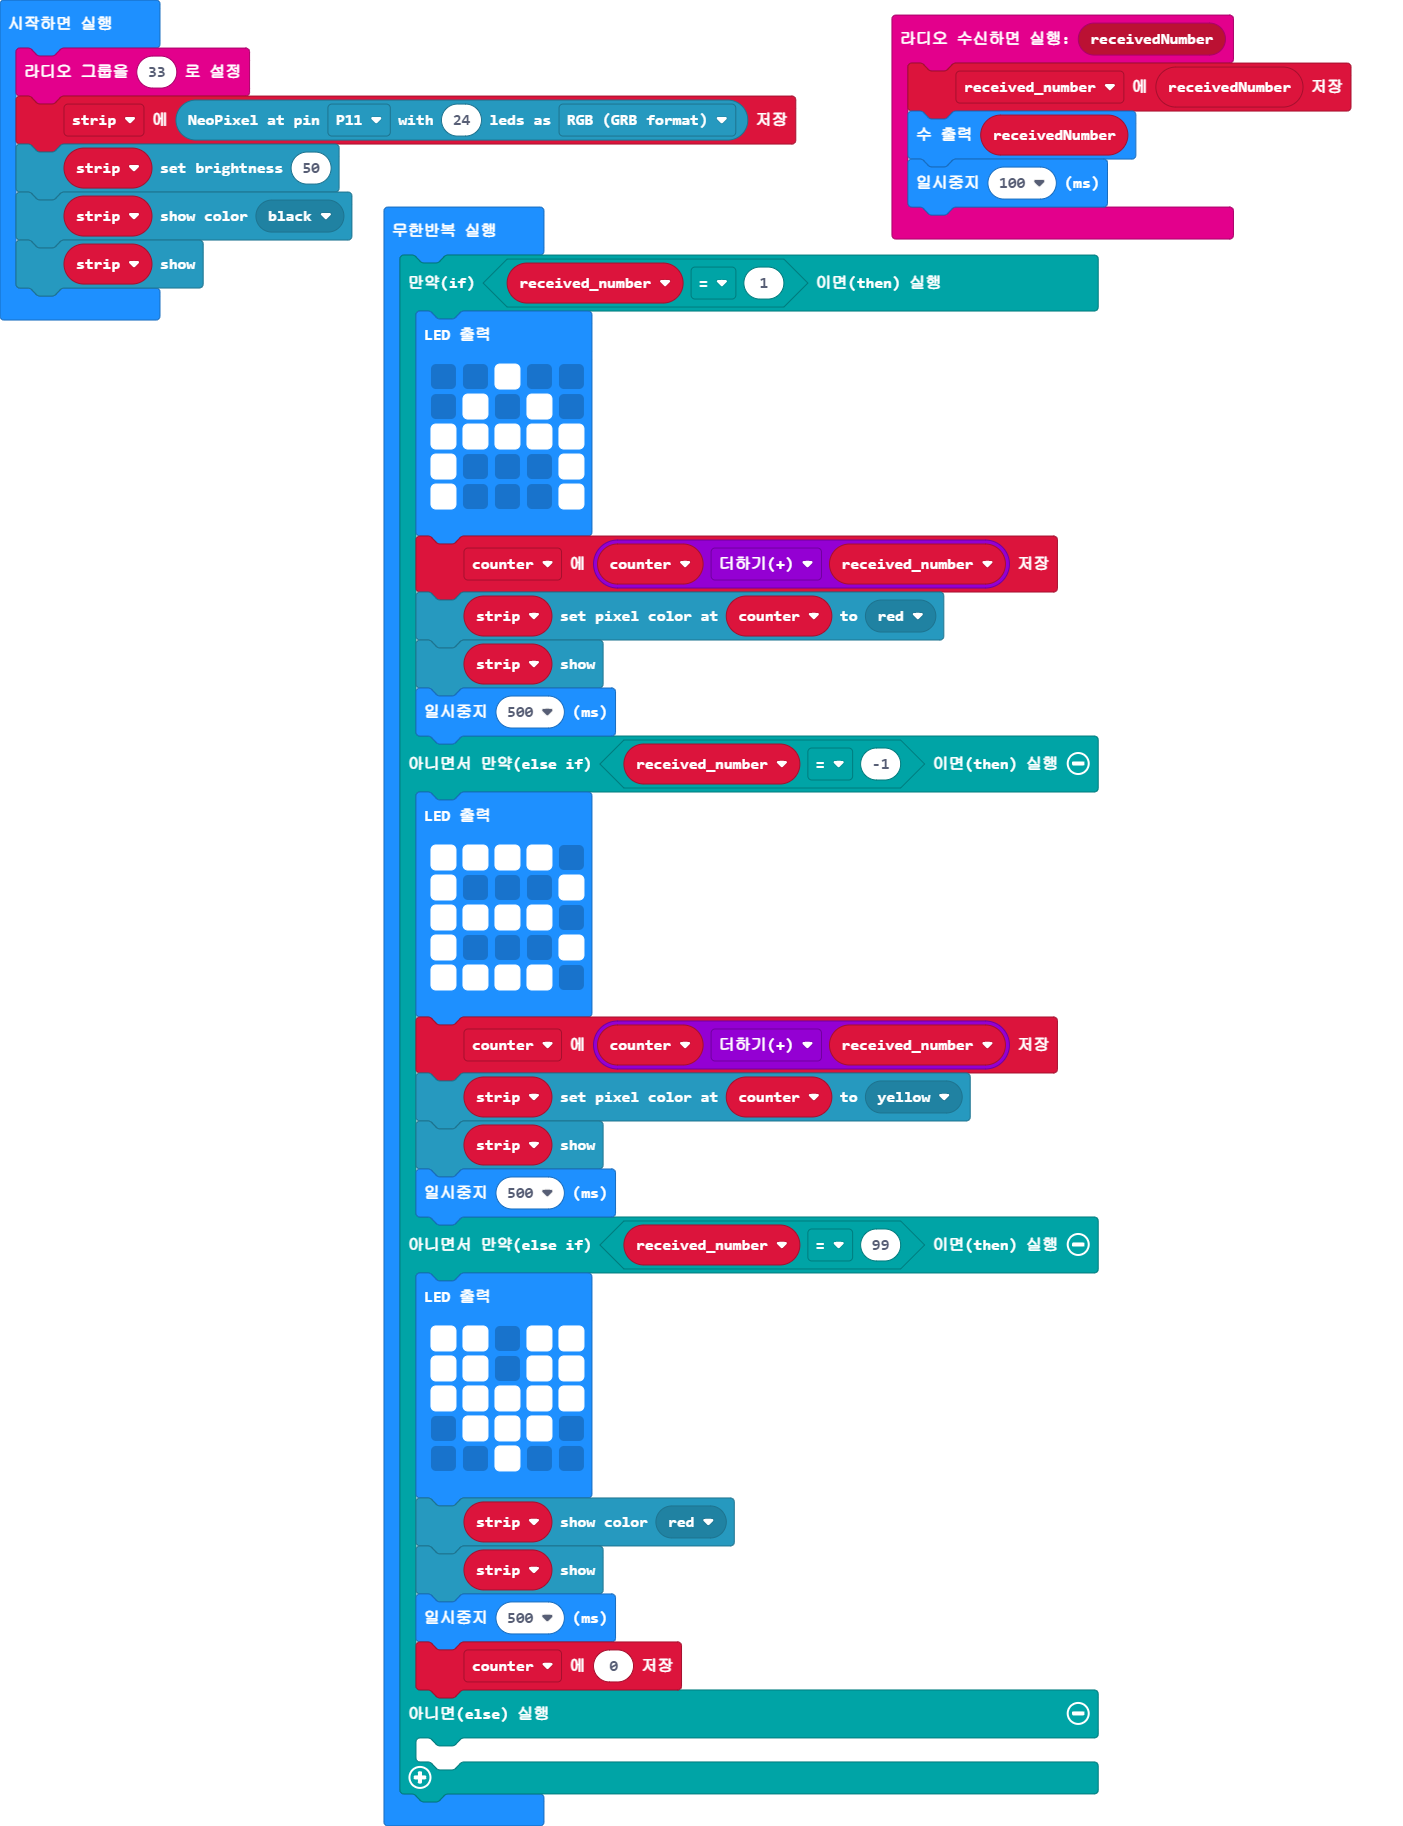
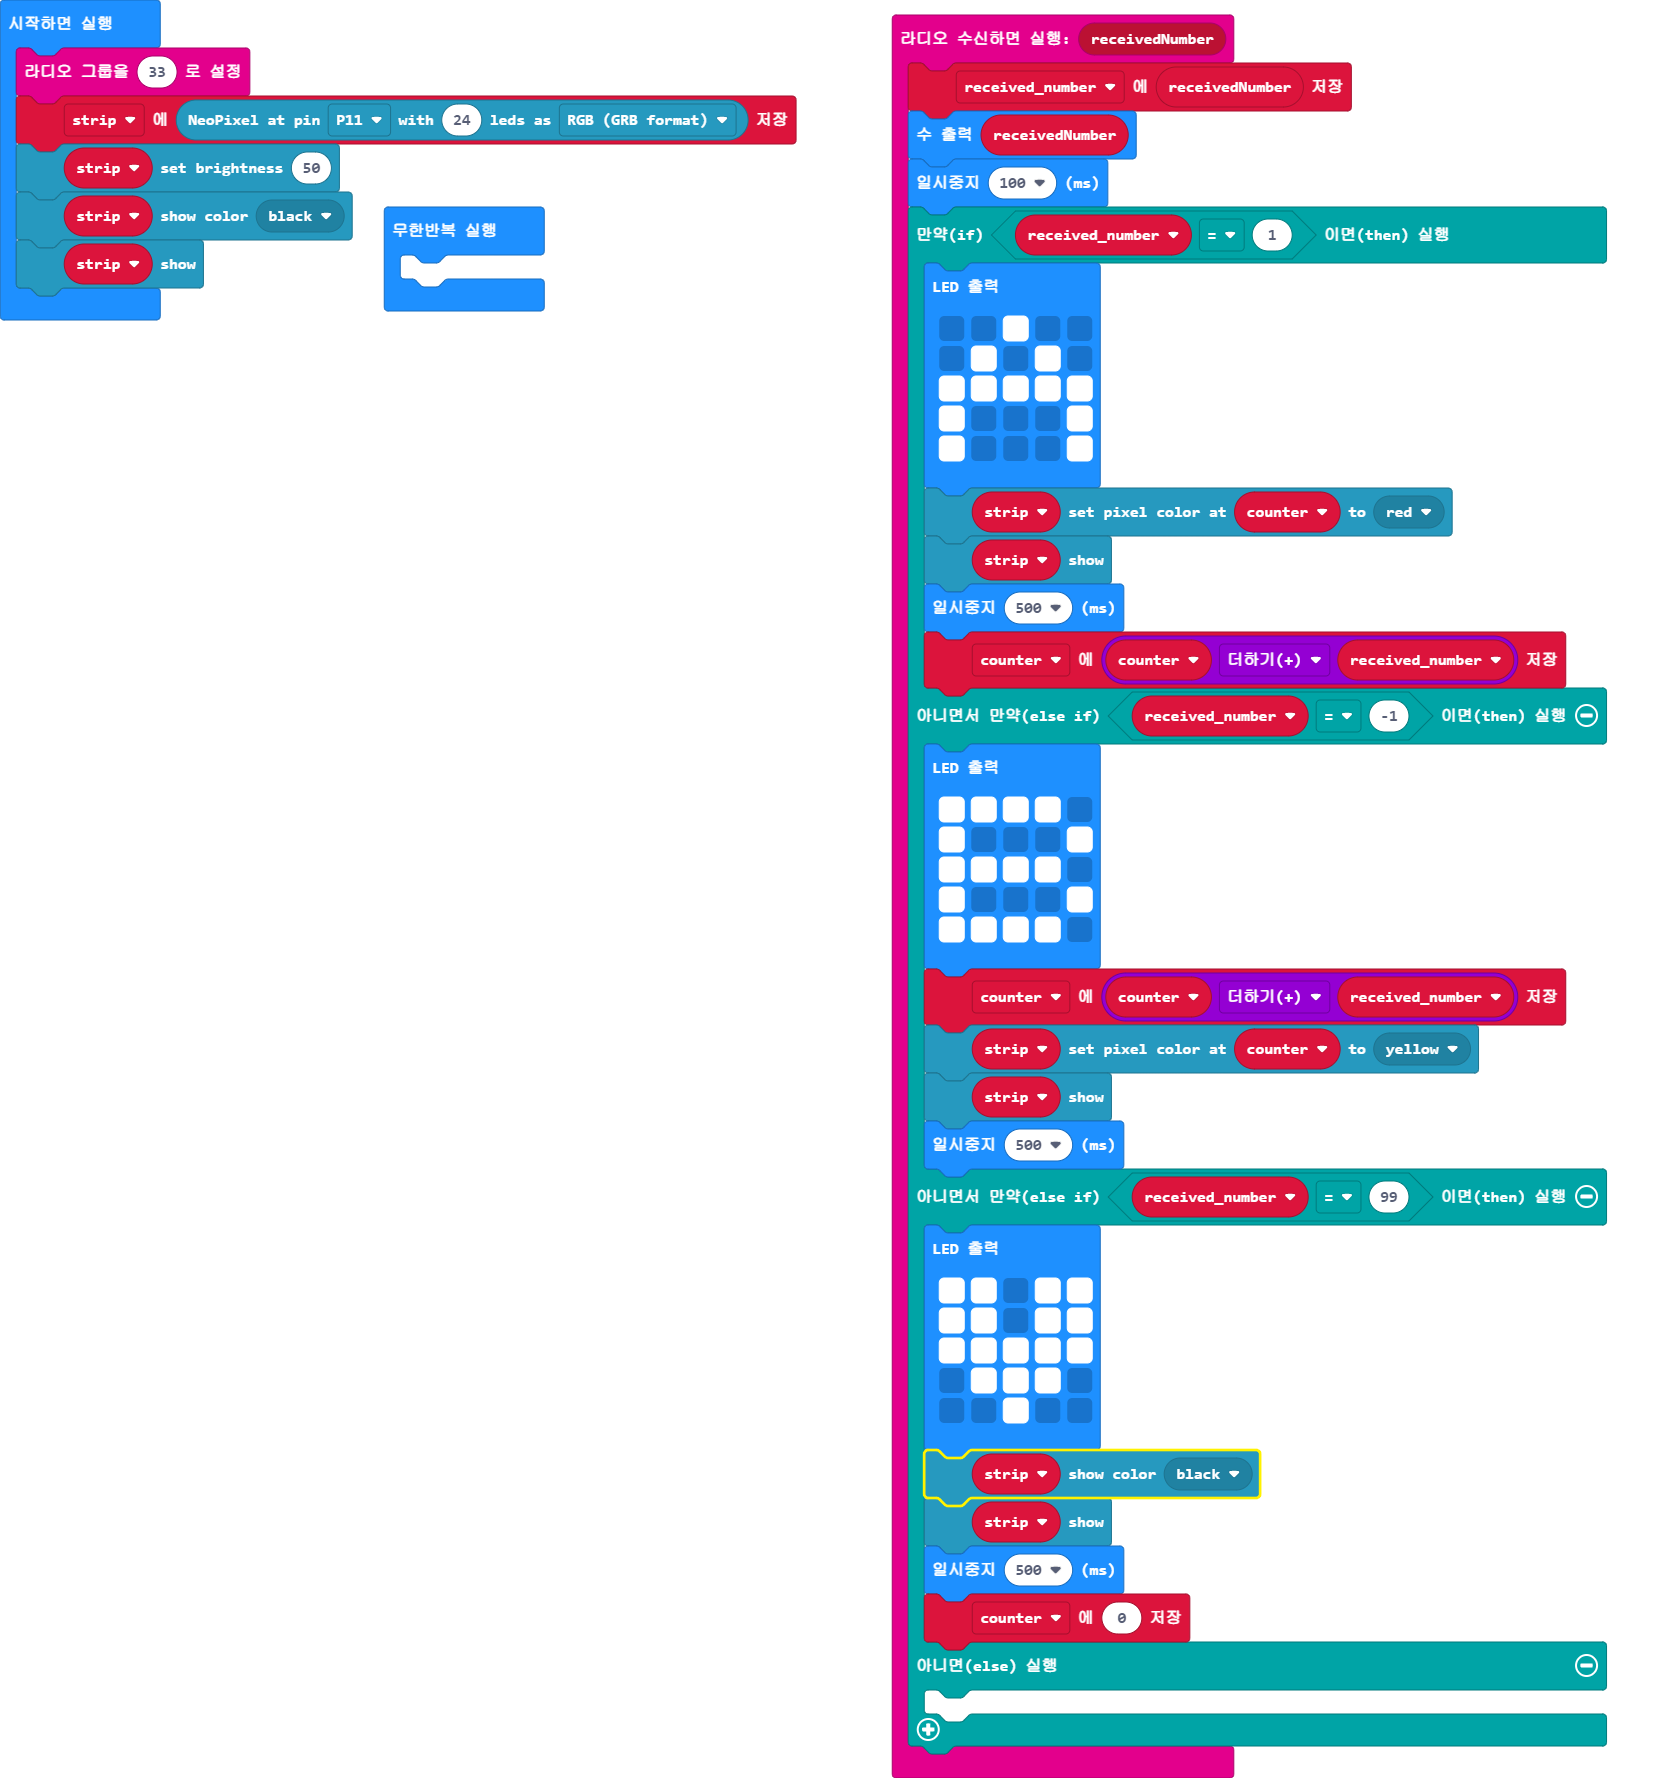
main.blocks, main.ts 업데이트하기

diff --git a/main.ts b/main.ts
@@ -2,15 +2,6 @@ radio.onReceivedNumber(function (receivedNumber) {
     received_number = receivedNumber
     basic.showNumber(receivedNumber)
     basic.pause(100)
-})
-let counter = 0
-let received_number = 0
-radio.setGroup(33)
-let strip = neopixel.create(DigitalPin.P11, 24, NeoPixelMode.RGB)
-strip.setBrightness(50)
-strip.showColor(neopixel.colors(NeoPixelColors.Black))
-strip.show()
-basic.forever(function () {
     if (received_number == 1) {
         basic.showLeds(`
             . . # . .
@@ -19,10 +10,10 @@ basic.forever(function () {
             # . . . #
             # . . . #
             `)
-        counter = counter + received_number
         strip.setPixelColor(counter, neopixel.colors(NeoPixelColors.Red))
         strip.show()
         basic.pause(500)
+        counter = counter + received_number
     } else if (received_number == -1) {
         basic.showLeds(`
             # # # # .
@@ -43,11 +34,22 @@ basic.forever(function () {
             . # # # .
             . . # . .
             `)
-        strip.showColor(neopixel.colors(NeoPixelColors.Red))
+        strip.showColor(neopixel.colors(NeoPixelColors.Black))
         strip.show()
         basic.pause(500)
         counter = 0
     } else {
     	
     }
+})
+let counter = 0
+let received_number = 0
+let strip: neopixel.Strip = null
+radio.setGroup(33)
+strip = neopixel.create(DigitalPin.P11, 24, NeoPixelMode.RGB)
+strip.setBrightness(50)
+strip.showColor(neopixel.colors(NeoPixelColors.Black))
+strip.show()
+basic.forever(function () {
+	
 })
